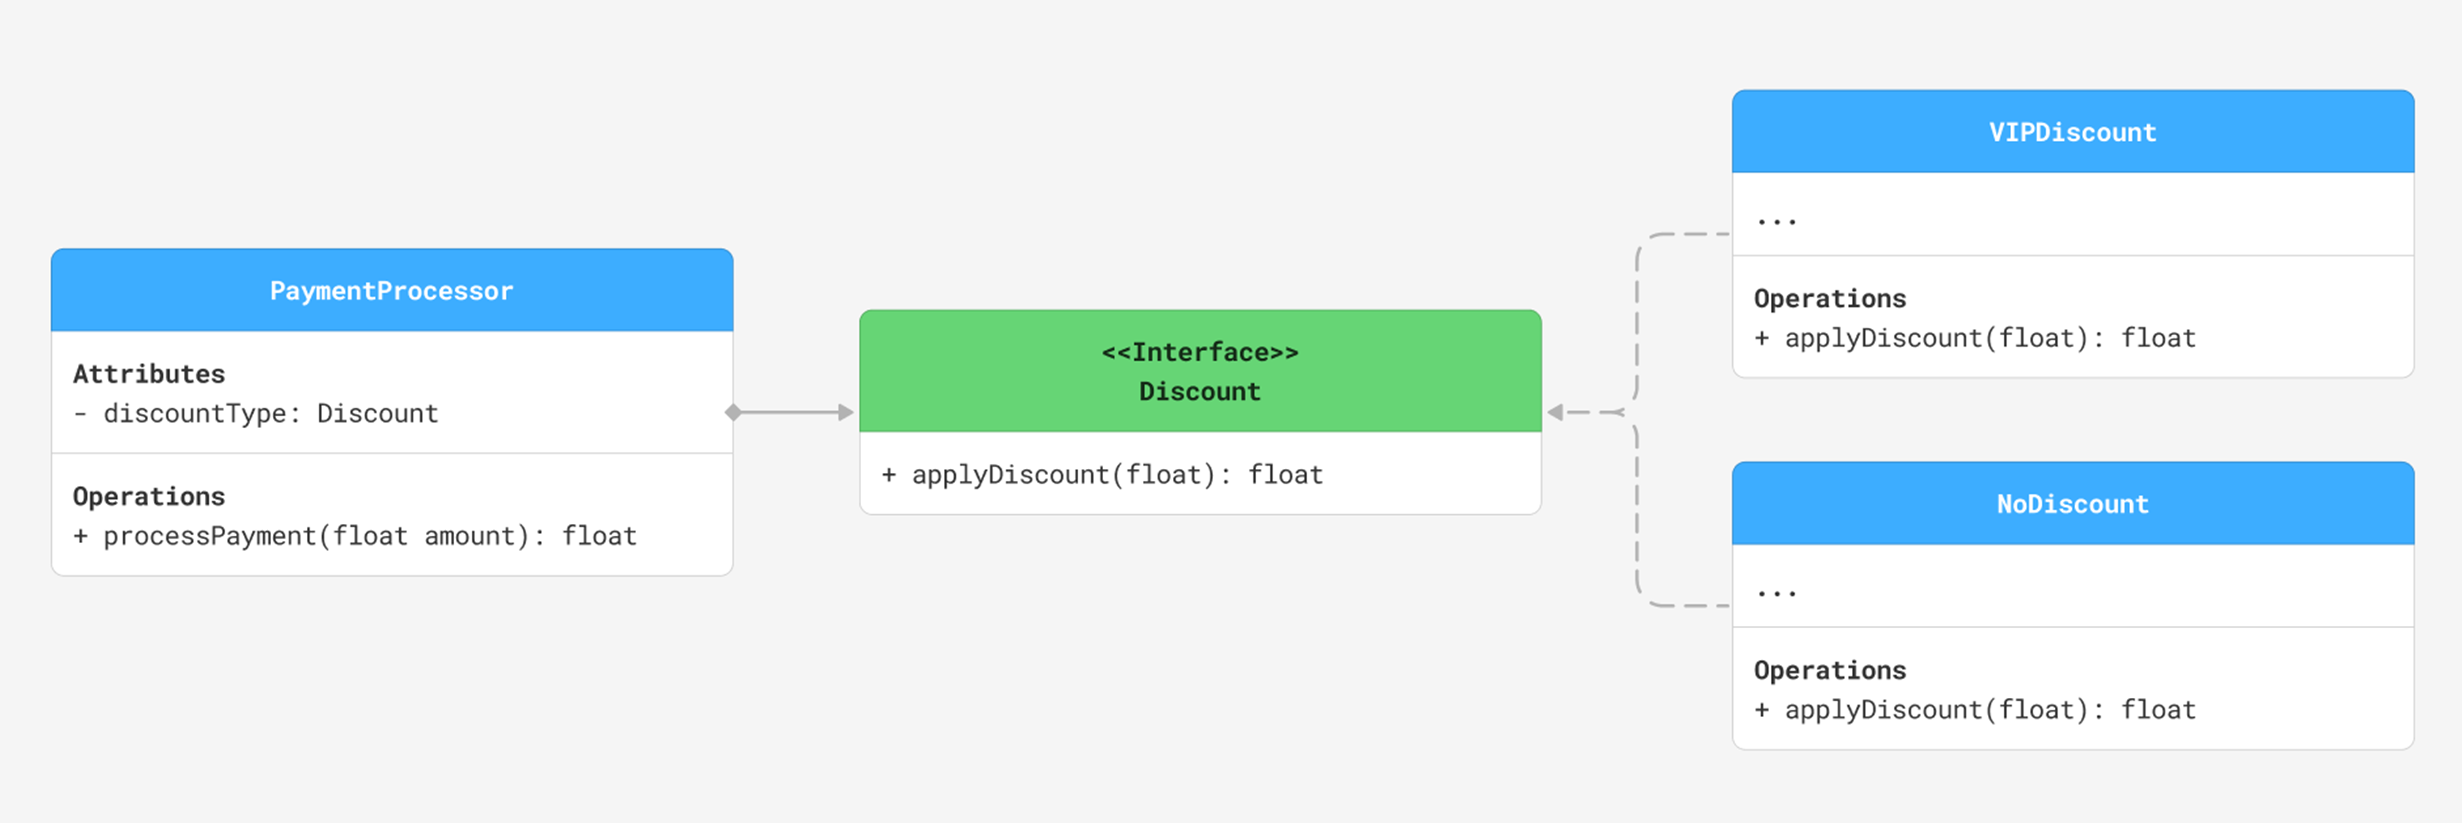
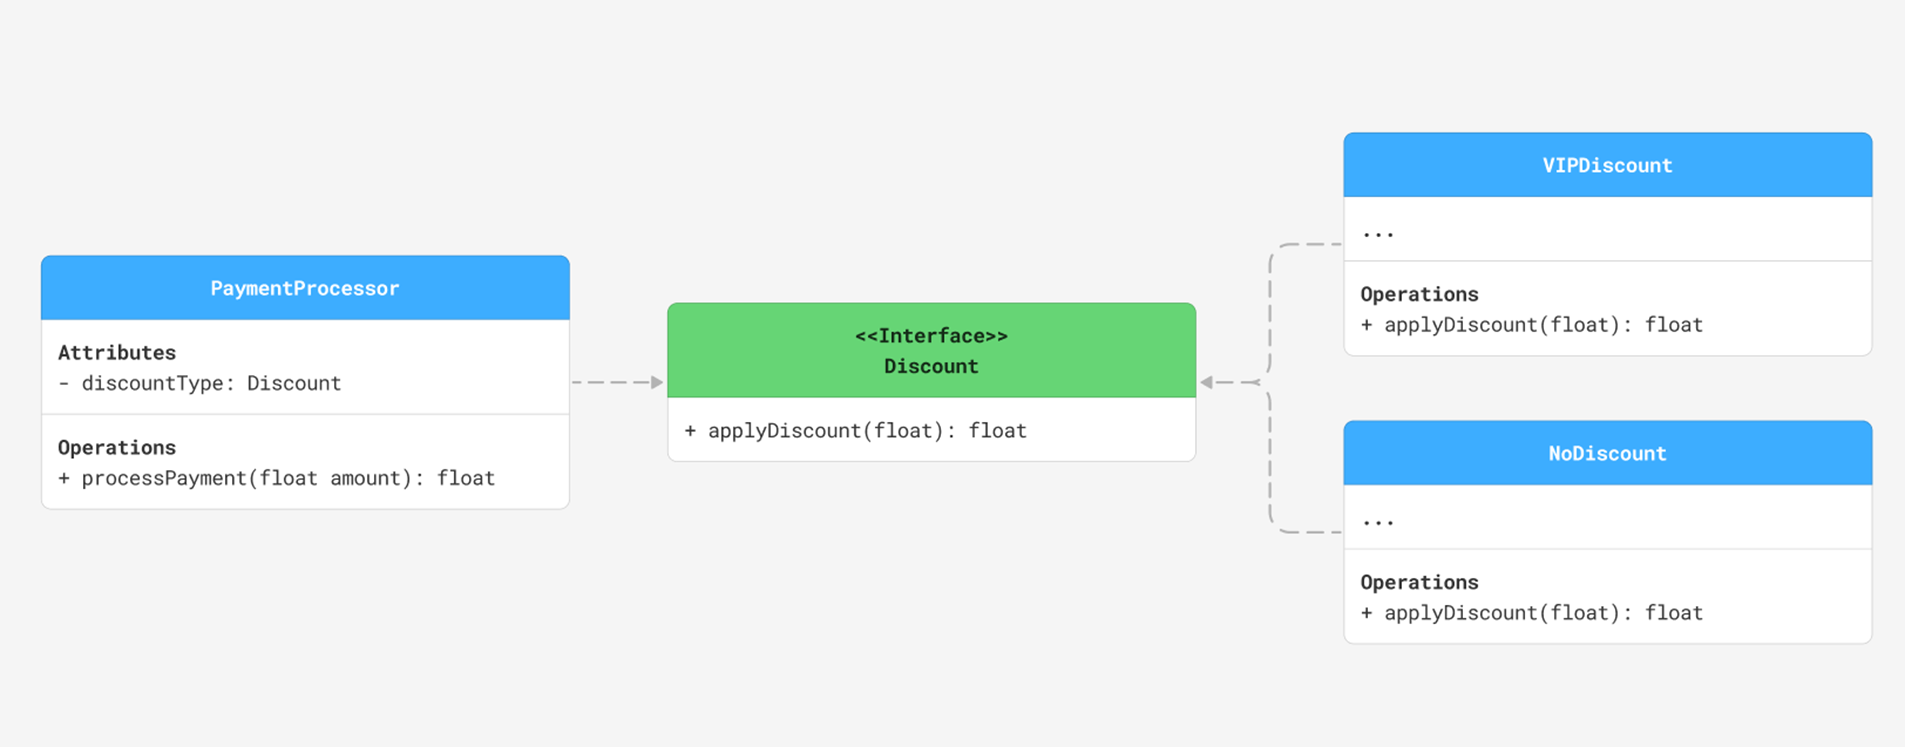
Missing details

diff --git a/DiscountCalculator.py b/DiscountCalculator.py
@@ -3,6 +3,7 @@
     Programa que utiliza el Principio Abierto/Cerrado (OCP) para permitir agregar nuevos tipos de descuentos sin alterar el código existente 
     y el Principio de Responsabilidad Única (SRP) para que cada tipo de descuento se encarga de su propio cálculo. 
 """
+from abc import ABC, abstractmethod
 
 #Clase PaymentProcessor
 class PaymentProcessor():
@@ -15,6 +16,7 @@ class PaymentProcessor():
 
 #Interfaz de descuento
 class Discount():
+    @abstractmethod
     def apply_discount(self, amount):
         return amount
 
